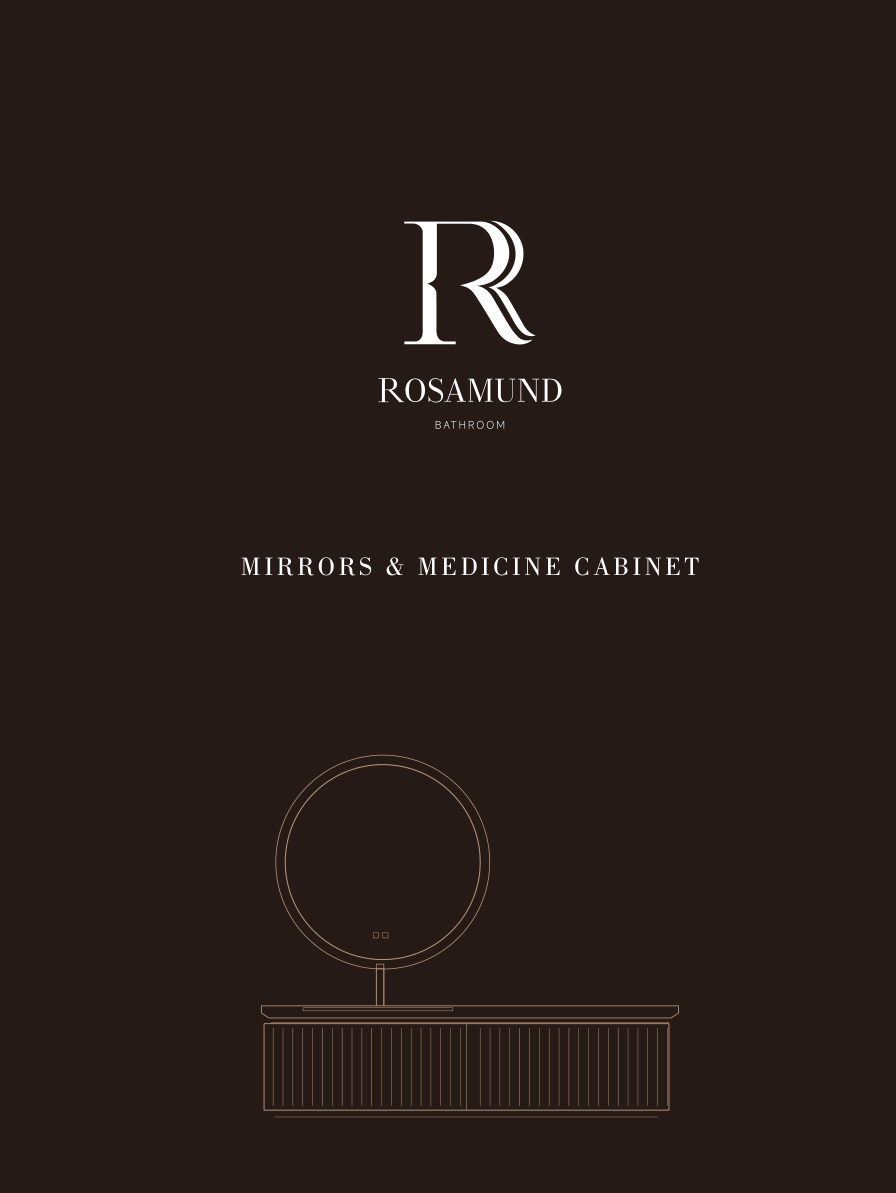
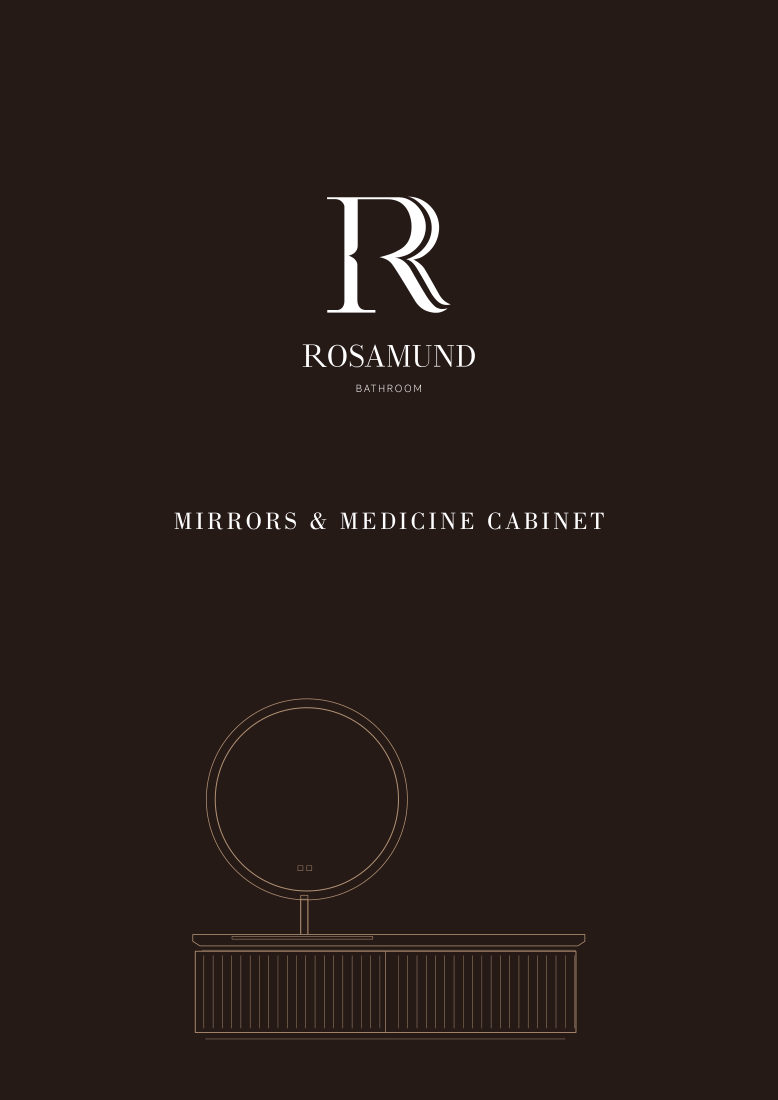
Show full front cover for each catalog

diff --git a/index.html b/index.html
@@ -18,8 +18,8 @@ h1{font-weight:300;font-size:15px;letter-spacing:.28em;margin:0;text-transform:u
 .rule{width:44px;height:1px;background:var(--gold);margin:16px auto 0}
 main{max-width:1080px;margin:0 auto;padding:8px 16px 40px;display:grid;grid-template-columns:repeat(auto-fit,minmax(240px,1fr));gap:20px}
 .card{background:var(--card);border:1px solid var(--line);display:flex;flex-direction:column}
-.cover{display:block;aspect-ratio:3/4;overflow:hidden;background:#111}
-.cover img{width:100%;height:100%;object-fit:cover;display:block;transition:transform .4s}
+.cover{display:flex;align-items:center;justify-content:center;aspect-ratio:3/4;overflow:hidden;background:#171515;padding:14px}
+.cover img{max-width:100%;max-height:100%;width:auto;height:auto;display:block;box-shadow:0 6px 20px rgba(0,0,0,.45);transition:transform .4s}
 .cover:hover img{transform:scale(1.03)}
 .meta{padding:16px 16px 18px}
 h2{font-family:"Cormorant Garamond",Georgia,serif;font-weight:500;font-size:22px;margin:0 0 4px}
